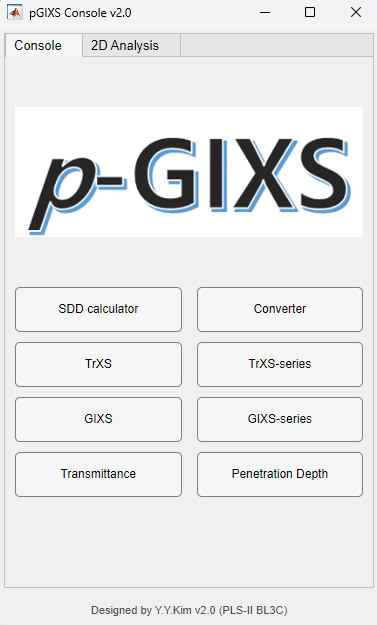
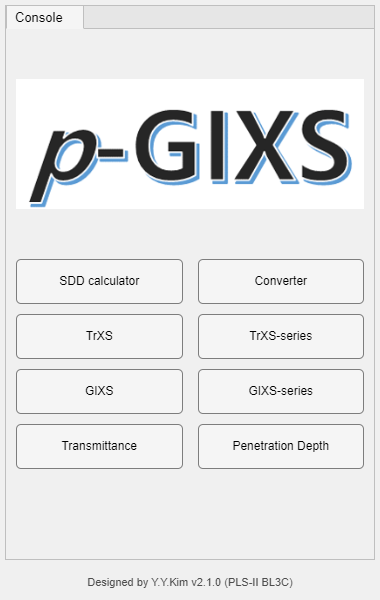
Recapture figure 1 from the distribution build
The console screenshot came from a source run, so it showed a 2D Analysis
tab that the manual no longer documents and that end users do not have --
dist/PGIXS.m builds the console without it. It also predated the version
unification and still read v2.0.

Recaptured by running dist/build/PGIXS.m and calling exportapp on the
window, rather than taking an OS screenshot: same window the compiled exe
shows, and reproducible. One Console tab, footer reading v2.1.0.

Caption now says it is the distribution console, since a source run does
show the extra tab.

Verified alongside this that the compiled package is sound. The .prj lists
no .nff files, which looked like the bug that broke XTrans in the Python
distribution ("Element 'C' is NOT in the table list") -- refrac.m opens
them by bare filename, so they have to be inside the CTF to be found. All
92 atomic scattering factor tables are in fact embedded in the exe, along
with periodictable.mat and the mask and attenuation tables; the compiler
included the folder even though the project file does not enumerate them.
Confirmed working in the built app.

Changed region(s): [[0.0, 0.0, 0.992, 0.93], [0.0584, 0.18, 0.9337, 0.39], [0.2334, 0.96, 0.7878, 0.99]]

diff --git a/docs/manual_ko.md b/docs/manual_ko.md
@@ -46,7 +46,7 @@ PGIXS
 | --- |
 | SDD calculator · Converter · TrXS · TrXS-series · GIXS · GIXS-series · Transmittance · Penetration Depth |
 
-![그림 1. pGIXS Console — Console 탭. 여기서 각 도구 창을 띄운다. 하단에 스위트 버전이 표시된다](figures/fig01.png)
+![그림 1. 배포판 pGIXS Console. 여기서 각 도구 창을 띄운다. 하단에 스위트 버전이 표시된다](figures/fig01.png)
 
 ### 1.2 실행 환경
 
